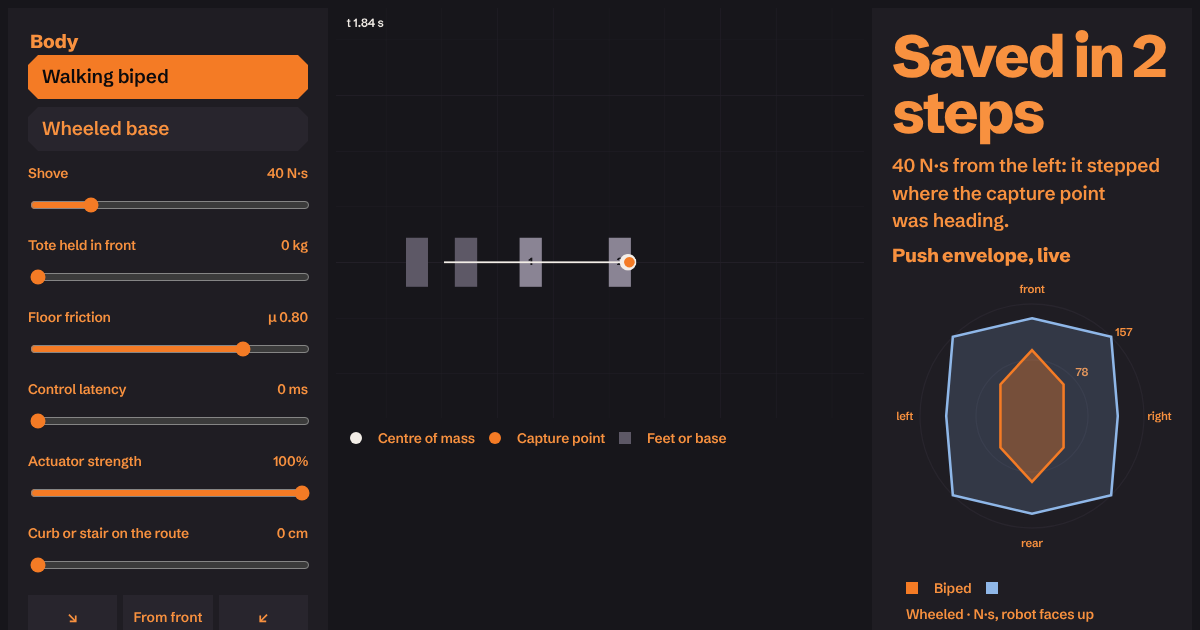
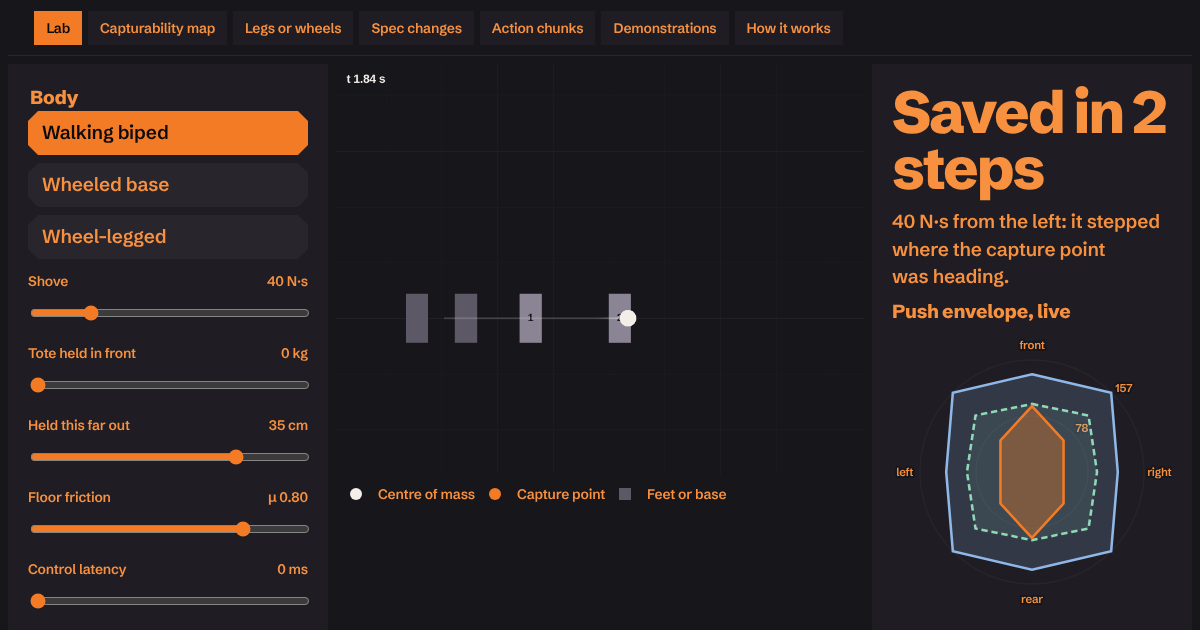
docs(site): refreshed humanoid lab screenshot, landing image and link preview (three bodies)
Claude-Session: https://claude.ai/code/session_01KErifceBCnjeR5WkvbuRTg

diff --git a/site/index.html b/site/index.html
@@ -207,7 +207,7 @@
   </div>
   <div class="legs-pic">
     <figure class="legs-shot">
-      <img src="/assets/img/humanoid-lab.png" width="1424" height="769" alt="The humanoid push lab: controls, a top view of the robot taking two steps to recover from a 40 N·s shove from its left, and its push envelope against a wheeled base" loading="lazy">
+      <img src="/assets/img/humanoid-lab.png" width="1424" height="800" alt="The humanoid push lab: three bodies to choose from, a top view of the biped taking two steps to recover from a 40 N·s shove from its left, and its push envelope against a wheeled base and a wheel-legged hybrid" loading="lazy">
     </figure>
   </div>
 </section>

diff --git a/web/index.html b/web/index.html
@@ -207,7 +207,7 @@
   </div>
   <div class="legs-pic">
     <figure class="legs-shot">
-      <img src="/assets/img/humanoid-lab.png" width="1424" height="769" alt="The humanoid push lab: controls, a top view of the robot taking two steps to recover from a 40 N·s shove from its left, and its push envelope against a wheeled base" loading="lazy">
+      <img src="/assets/img/humanoid-lab.png" width="1424" height="800" alt="The humanoid push lab: three bodies to choose from, a top view of the biped taking two steps to recover from a 40 N·s shove from its left, and its push envelope against a wheeled base and a wheel-legged hybrid" loading="lazy">
     </figure>
   </div>
 </section>
